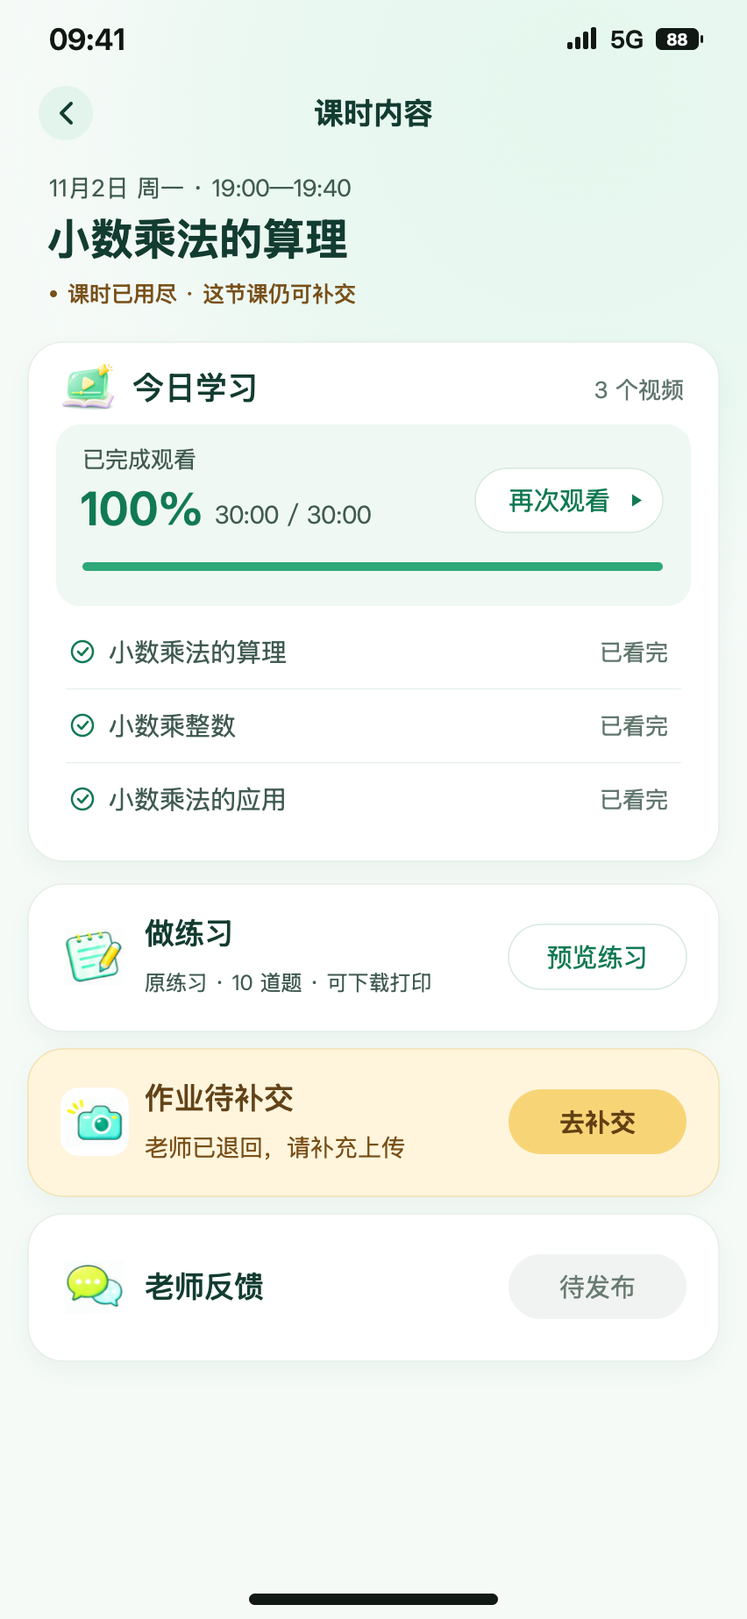
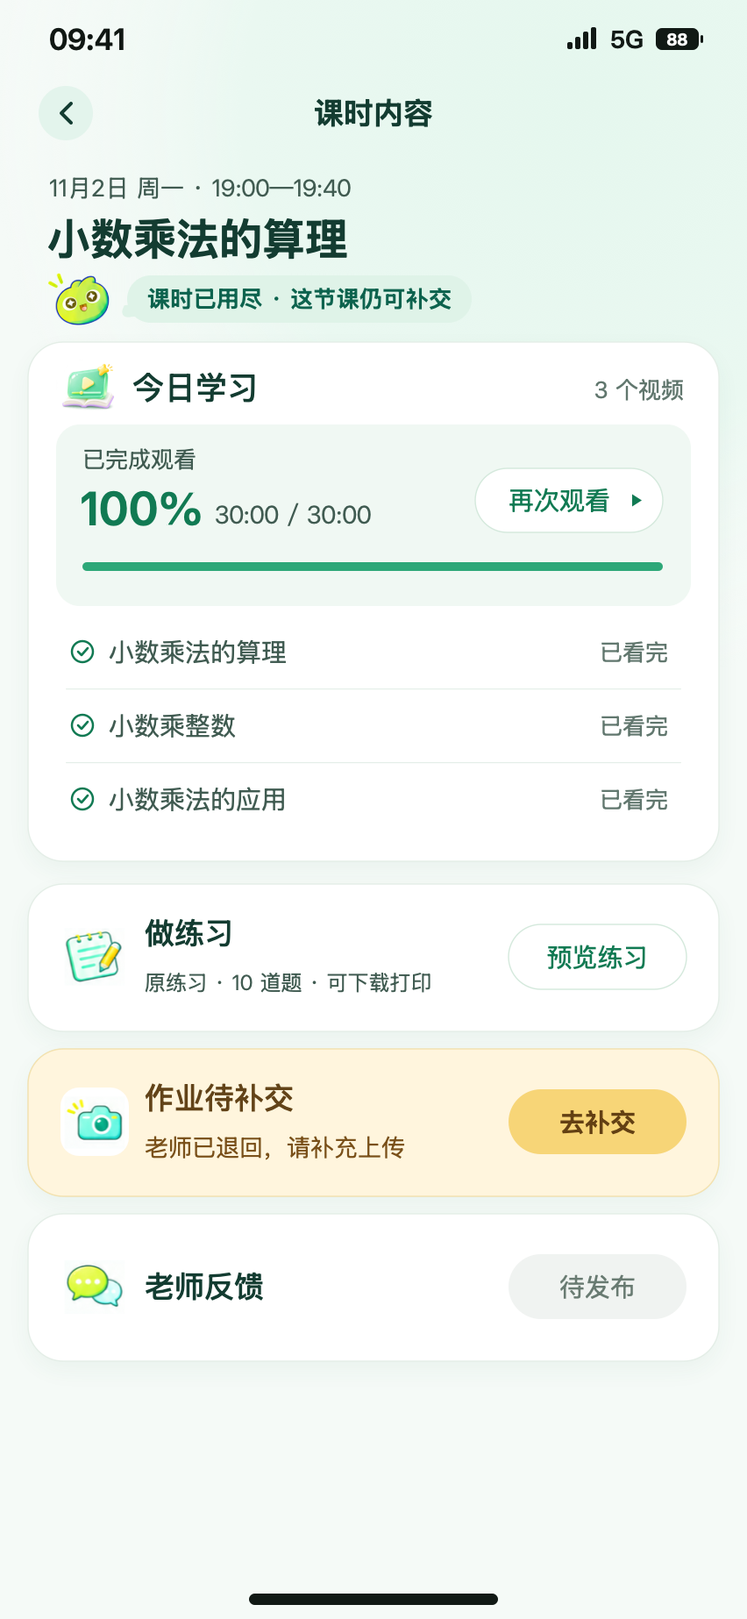
Align lesson status prompts and summary retry

Changed region(s): [[0.061, 0.1544, 0.6103, 0.2161]]

diff --git a/index.html b/index.html
@@ -15,7 +15,7 @@
 <main class="shell" id="shell" hidden><aside class="rail"><input id="search" aria-label="搜索页面" placeholder="搜索页面或状态"><nav id="nav" aria-label="设计页面目录"></nav></aside><section class="workspace"><div class="work-head"><div><h1 id="page-title"></h1><p id="page-meta"></p></div><div class="step-controls"><button id="read-interaction" class="detail-jump">交互说明</button><button id="previous" aria-label="上一张">‹</button><button id="next" aria-label="下一张">›</button></div></div><div class="stage" id="stage"><div class="screen" id="screen"><img id="screen-image" alt=""><div id="hotspots"></div><div id="learning-fields"></div></div></div></section><aside class="detail" id="interaction-detail"><h2 id="detail-title"></h2><p id="feature"></p><h3>功能、状态与权限</h3><ul id="rules"></ul><h3>查看交互去向</h3><div id="actions" class="action-links"></div><div class="file-links"><a id="original" target="_blank" rel="noopener">查看原图 ↗</a><a id="download" download>下载 PNG</a></div><p class="hint">手机稿按原尺寸提供下载。短信、上传、播放、反馈等流程使用演示数据。</p><p class="status"></p></aside></main>
 <section class="overview" id="overview"><h1>UI 设计图</h1><div id="overview-groups"></div></section>
 <script id="review-data" type="application/json">{"screens":[{"id":"00","group":"首页","name":"首页 · 已排课","file":"00-首页-已排课.png"},{"id":"00-empty","group":"首页","name":"首页 · 未排课","parent":"00","file":"00-首页-未排课.png"},{"id":"01","group":"账号","name":"手机号登录","parent":null,"spec":"A clean welcoming phone-code login screen, no tabs or back arrow. Compact green pepper smiling brand logo above 青椒伴学. Warm heading 欢迎回来 and subtitle 让学习有人陪，让成长看得见. White form card contains labels 购课登记手机号 and 短信验证码, phone input placeholder 请输入购课登记手机号, code input 请输入验证码 and inline 获取验证码. Wide turquoise 登录并开始学习 button. Below an UNCHECKED consent checkbox with 我已阅读并同意 plus separate 用户协议 and 隐私政策 text links. Small supporting text 仅面向已购伴学服务、由老师建档的学生. No registration, no password login, no social logins, no fake SMS duration/countdown, no demonstration 123456 in product UI. Friendly illustration no more than 20% of screen.","file":"01-手机号登录.png"},{"id":"02","group":"账号","name":"选择学生","parent":null,"spec":"Subpage title 选择学生. Heading 今天，陪谁一起学习？ subtitle 同一账号下的学生，学习记录各自独立. Two large tappable white student rows: illustrated friendly pepper avatar, 林小禾 / 五年级 · 数学, right chevron; second slightly different friendly pepper expression, 林小满 / 七年级 · 数学, right chevron. Subtle current badge 当前学生 on 林小禾 for this switch-student variant, not an editable control. Bottom explanation 学生档案由老师建立，如有疑问请联系老师. No 新增学生, no editing grade, no destructive controls. No bottom tabs.","file":"02-选择学生.png"},{"id":"02A","group":"账号","name":"完善学习信息","parent":"02","file":"02A-完善学习信息-v2.png","spec":"沿用02的852×1846画布比例；按当前学生确认年级及教材版本。","artwork":"assets/learning-reference.png"},{"id":"03","group":"账号","name":"未关联学生","parent":null,"spec":"Subpage title 暂未关联学生. Spacious centered empty-state illustration: small friendly pepper holding an unlinked student card, modern teal/lime illustrative style, not sad or alarming. Title 当前手机号尚未关联学生. Body 请使用购课登记手机号登录，或通过已有服务渠道联系老师. A single primary 更换手机号 button. Below subtle helper 学生档案由老师建立. No 自动创建, no 注册, no invented teacher contact QR or unknown phone.","file":"03-未关联学生.png"},{"id":"04","group":"学习","name":"周历与待发布周报","parent":null,"spec":"Main STUDY tab screen. Page heading 学习, subtitle 看得见安排，也看得见每一次努力, small pepper mascot top right matching brand. First white calendar card: title 这周的学习安排, small 回到本周 link. Week header left/right chevrons, 11月2日—11月8日. Exactly one row of seven days 周一 2, 周二 3, 周三 4, 周四 5, 周五 6, 周六 7, 周日 8. 4 selected turquoise rounded capsule, small course dots under 2,4,6, no dots other dates. Supporting legend 有已发布安排 · 点击日期查看. Below section 本周学习周报, generous white empty-state card with small illustrated report/book icon, 本周周报尚未发布, 老师发布后，你可以在这里查看, secondary outlined 查看上周周报 button. No monthly calendar, no separate tabs for 周计划/学习周报, no create plan control. Bottom navigation visible with 学习 active.","file":"04-周历与待发布周报.png"},{"id":"05","group":"学习","name":"上周已发布周报","parent":"04","spec":"Keep precisely the same 学习 main screen layout as second reference, with 学习 tab selected. Calendar week changes to 10月26日—11月1日 and seven day numbers 26,27,28,29,30,31,1, course dots under26,28,30; 30 selected. Section 上周学习周报. Replace unpublished empty card with published report card, small report illustration on right, title 一周，一点进步, date10.26—11.01, metadata 3次安排 · 2份作业已提交, small 已发布 · 第1版 pill, turquoise 查看周报 button. Keep 回到本周 link and week chevrons.","file":"05-上周已发布周报.png"},{"id":"06","group":"学习","name":"日期课程弹层","parent":"04","spec":"Date-schedule BOTTOM SHEET overlay on the same 学习 calendar screen as second reference. Dim background softly but retain recognizable calendar and tab bar; overlay covers lower ~53%. Sheet white, rounded top corners, drag handle and close x. Title 11月4日的学习安排, subtitle 周三 · 已发布. One course white/mint card: 数学, 小数乘法的算理, 今天19:00—19:40. Small beautiful math video thumbnail 0.3 × 4 with play symbol, metadata 视频1个 · 原练习3题. Two clear actions: primary 进入学习, secondary 预览练习. Do not repeat 今天上课 badges, do not force video before practice. Sheet padded above home indicator, no tab bar on top of sheet.","file":"06-日期课程弹层.png"},{"id":"07","group":"学习","name":"当天无课程弹层","parent":"06","spec":"State variant of the date-schedule bottom sheet second reference. Background calendar retains current week but select 周四5. Compact white bottom sheet about 36% height with close button and handle. Heading 11月5日的学习安排. Small outlined mint calendar illustration. Message 当天暂无已发布课程. Supporting text 可以切换日期，查看其他学习安排. Neutral 知道了 button that closes sheet. No course cards, no 创建计划 or guessed future plans, no fake data.","file":"07-当天无课程弹层.png"},{"id":"08","group":"课时","name":"课时详情","parent":null,"spec":"Subpage header 学习内容. Top date 11月4日 周三 · 19:00—19:40, heading 小数乘法的算理. Supporting 按自己的节奏开始，不需要依次完成. FOUR compact separate white action cards stacked with balanced spacing, not a timeline requiring order. Each has colorful icon left, text middle and control right:\n看视频 / 已观看35% / 继续观看.\n做练习 / 原练习 · 3题 · 可下载打印 / 预览练习.\n交作业 / 纸笔完成后，拍照整份上传 / 上传作业.\n老师反馈 / 老师发布后可以查看 / 查看状态 (secondary).\nAt bottom a quiet tip 视频、练习与作业可自由进入. No completed/掌握 claims. No empty 加练 entry before teacher publishes, no tabs. All four action cards must fit without compressed glyphs.","file":"08-课时详情.png"},{"id":"09","group":"课时","name":"未来课时未开放","parent":"08","spec":"Exact layout variant of lesson detail reference. Date11月6日 周五 · 19:00—19:40, same course 小数乘法的算理. Add quiet visible mint notice 11月6日00:00开放视频与作业提交 and small 北京时间. 看视频 card locked with 未到学习日 and gray disabled 待开放; 做练习 card remains active 预览练习 with3题 and PDF info; 交作业 locked 待开放; 老师反馈 secondary 查看状态 not a fake published result. Supporting text 现在可以预览练习. No countdown or unlock time19:00; schedule time is not the lock threshold.","file":"09-未来课时未开放.png"},{"id":"10","group":"视频","name":"视频学习 · 多课程","parent":null,"spec":"390×844布局基准，852×1846设计稿；一排三节课程，播放器内倍速，关键节点真人形象AI老师讲解示意；下方总结卡片留足间距，无播放位置提示行。","file":"10-视频学习-v2.png","artwork":"assets/video-reference.png"},{"id":"11","group":"视频","name":"网络失败","parent":"10","spec":"Same 视频学习 layout as reference. Within 16:9 player replace lesson image with calm very pale mint error surface, small tasteful disconnected-network illustration, heading 网络连接失败, helper 请检查网络后重试 and primary 重试播放 button. Keep below course 小数乘法的算理 and remembered-position helper. Bottom 前往练习 remains accessible. No cartoon alarm, no entire-screen huge warning. Preserve page geometry.","file":"11-网络失败.png"},{"id":"12","group":"视频","name":"无观看权限","parent":"10","spec":"Same 视频学习 page geometry. In player state surface use small mint shield/lock illustration, heading 暂无该视频观看权限, helper 请联系老师了解详情. No retry-play button, no purchase or renew CTA. Course title and 前往练习 remain below. Secondary 联系老师 text control may open existing shared contact sheet. Distinguish this state clearly from network failure.","file":"12-无观看权限.png"},{"id":"13","group":"视频","name":"资源不可用","parent":"10","spec":"Same 视频学习 page geometry. In player state area show small mint file/video unavailable illustration, heading 视频资源暂不可用, helper 请稍后再试，或联系老师了解详情. No claim permission expired, no invented reason, no purchase or renewal. Keep course heading and 前往练习 below.","file":"13-资源不可用.png"},{"id":"14","group":"视频","name":"观看有效期届满","parent":"10","spec":"Same 视频学习 page geometry. Player state shows small calendar-lock illustration, heading 视频观看有效期已届满, helper 请联系老师了解详情. Secondary 联系老师 button. Retain 小数乘法的算理 and 前往练习 below. Do not show guessed validity length or automatic renewal. Do not call this 服务到期: video authorization is independent of service.","file":"14-观看有效期届满.png"},{"id":"15","group":"练习作业","name":"原练习预览","parent":null,"spec":"Subpage 练习预览. Label 原练习 · 纸笔作答, right 共3题, heading 小数乘法的算理. White paper-like content with three clear numbered questions and generous ruled handwriting space:\n1. 计算：0.3 × 4 = ______\n2. 一盒彩笔2.5元，买3盒一共多少钱？\n3. 小禾每天步行1.2千米，5天一共步行多少千米？\nThese are static printable questions, NOT input fields, no answer buttons or correct answers.\nBottom fixed action area with outlined 下载原练习PDF and primary 完成了，上传作业. Small helper 练习PDF不含答案，反馈发布后可查看. Ensure handwriting spaces and questions visible; numbered questions printed on a single paper sheet. No bottom tabs.","file":"15-原练习预览.png"},{"id":"16","group":"练习作业","name":"老师加练预览","parent":"15","spec":"Same printable exercise page layout but nav title 巩固加练. Tag 老师发布 · 一轮加练. Title 小数乘法巩固练习, 共3题. Paper questions: 1.计算：0.4 × 3 = ______; 2.每盒彩笔2.6元，4盒共多少元？; 3.每天步行1.5千米，4天共多少千米？ Handwriting areas, no answers and no online inputs. Bottom secondary 下载加练PDF and primary 完成了，上传加练. Small text 老师发布后即可完成，不另扣课时. No automatic second round, no mastery meter.","file":"16-老师加练预览.png"},{"id":"17","group":"练习作业","name":"多图作业待提交","parent":null,"spec":"Subpage 原练习作业. Course 小数乘法的算理, subtitle11月4日 周三 · 原练习. Gentle helper 请拍清整页，保留题目和答案. White upload area: two realistic photographed elementary math homework paper thumbnails with tidy visible pencil arithmetic and page numbers 第1张, 第2张. These are photographs, not flat icons. Each thumbnail small x delete control at top-right. A third equal-size dashed mint + 添加图片 tile with 拍照或从相册选择 helper. Below note 支持多张图片，不支持PDF上传. Wide bottom primary 确认整份提交 · 2张. Helper 提交后可查看，老师退回后才能修改. Small neutral note 21:00后仍可提交. No demo-image button, no hard-coded file-size limit or max count.","file":"17-多图作业待提交.png"},{"id":"18","group":"练习作业","name":"整份提交确认","parent":"17","spec":"Exact upload page as reference behind a lightly dimmed scrim. White compact BOTTOM SHEET with handle, small check/document illustration. Heading 确认提交这份作业？ Body 共2张图片，请确认题目与答案完整清晰. Small helper 提交后可查看，老师退回后才能修改. Full turquoise 确认提交 and secondary 继续检查. Close x, safe bottom padding. Photo thumbnails behind stay selected. No automatic deletion, no irrevocable exaggerated warning.","file":"18-整份提交确认.png"},{"id":"19","group":"练习作业","name":"上传失败保留图片","parent":"17","spec":"Exact editable upload page geometry as reference, keep BOTH homework photo thumbnails selected with delete controls and add tile. Add in-context gentle coral error row 上传失败，已保留所选图片 and secondary 请检查网络后重试 near submission area. Primary button 重试整份提交 · 2张. No reset to empty, no success badge, no clearing thumbnails. Maintain original course/date and readable helper. A soft red error icon only, not a full red page.","file":"19-上传失败保留图片.png"},{"id":"20","group":"练习作业","name":"提交成功只读","parent":"17","spec":"Same 原练习作业 page, course/date. Replace upload zone with submitted white card. Small mint success illustration, heading 作业已提交, subtitle 等待老师反馈. Show exactly two uploaded homework photo thumbnails labelled 第1张 and 第2张 in read-only mode: NO delete x, NO +tile, NO replace/upload action. Supporting 提交后不可自行覆盖，老师退回后可重新上传. Secondary 查看反馈状态 button. Small success toast 已提交，等待老师反馈 at lower area, not over controls. No invented response deadline.","file":"20-提交成功只读.png"},{"id":"21","group":"练习作业","name":"老师退回补交","parent":"17","spec":"Editable upload state nav 原练习作业, course 小数乘法的算理, date11月2日 周一 · 原练习. Prominent but soft amber notice: 老师已退回，请补充上传, explanation 第3题照片不完整，请补充包含题目和答案的整页照片. Preserve two existing photo thumbnails, each has delete x and 第1张/第2张 labels, plus +添加图片 tile. One outlined amber marker on second thumbnail 待补充. Bottom primary 确认补交 · 2张. Helper 21:00后仍可提交. No teacher-side buttons, no losing original images, no close-service notice in this active-service state.","file":"21-老师退回补交.png"},{"id":"22","group":"练习作业","name":"作业图片大图预览","parent":"17","spec":"Full-screen IMAGE VIEWER, not upload editor. Deep charcoal backdrop, top statusbar light. Top-left back chevron, centered 作业图片, top-right 1 / 2. Large legible realistic photograph of elementary math homework sheet centered with correct paper proportions, handwritten pencil calculations for 0.3×4=1.2, 2.5×3=7.5元, 1.2×5=6千米, with appropriate question text. Entire sheet visible without stretching, subtle margin. Bottom understated 左右滑动查看图片 and small home indicator. No delete button, no sharing to external platforms, no extra tab bar. This viewer may be dark because photo viewing requires focus; keep brand control accent turquoise.","file":"22-作业图片大图预览.png"},{"id":"23","group":"反馈周报","name":"反馈待发布","parent":null,"spec":"Subpage 老师反馈. Course 小数乘法的算理, date11月4日 周三. Main centered white state card with friendly small illustrated letter/report and tiny pepper, heading 已提交，等待老师反馈. Supporting 老师正式发布后，你可以看到逐题结果与学习建议. Secondary 查看已提交作业. Keep sufficient airy spacing. No provisional AI results, no answers, no visible draft version, no countdown or promised release time. A discreet bottom text 每一次认真，都值得被看见.","file":"23-反馈待发布.png"},{"id":"24","group":"反馈周报","name":"老师反馈","parent":null,"spec":"蓝色为今日知识点，红色为练习掌握情况，绿色为后续加强方向；错题解析支持批注详情底部抽屉和不同批注原图。","file":"24-老师反馈-v2.png","artwork":"assets/feedback-reference.png"},{"id":"24A","group":"反馈周报","name":"练习批改详情","parent":"24","file":"24A-批注详情-v2.png","artwork":"assets/feedback-reference.png"},{"id":"25","group":"反馈周报","name":"学习周报概览","parent":null,"spec":"Subpage 学习周报. Mint introductory area small report illustration; date10月26日—11月1日; title 小步向前，每一步都算数; subtitle 林小禾 · 数学周报 · 已发布第1版. Main white stats card 这一周的学习记录 with exactly 3 安排课程, 2 提交作业, 1 待提交. Next card 练习记录 with 3 rows: 原练习正确率 / 4/6 · 66.7%; 错题加练 / 1/3 · 33.3%; 全对巩固 / 暂无数据. Small informational note 原练习未交与待复核单列；加练待复核计入分母，不等同答错. Follow teacher-suggestion card visible near bottom 林老师想对你说, short 继续练习应用题，记得写清列式与单位. Fixed bottom 下载已发布周报PDF button with reserve space. No share link, no mastery, no study-time predictions, no red pie chart. Page can scroll, keep readable type.","file":"25-学习周报概览.png"},{"id":"26","group":"反馈周报","name":"学习周报明细续屏","parent":"25","spec":"A scrolled continuation of SAME 学习周报 detail, not a new module. Keep pinned back header 学习周报, small 已发布第1版. At top teacher card 林老师想对你说 with photo and advice 你认真完成了两次练习。下周继续练习应用题，记得写清列式与单位；未提交的作业也可以补上. Next card 课程与视频安排 with three entries:\n10月26日 小数乘整数 / 安排已结束;\n10月28日 小数乘小数 / 安排已结束;\n10月30日 小数乘法的应用 / 安排已结束.\nEach small tasteful video thumbnail, no fabricated watched status.\nNext explanation card 统计说明: 原练习：2份已完整复核，1份未交单列. 加练：1题正确、1题错误、1题待复核. 安排结束不代表学习完成. Distinguish 待复核 from 错误. Bottom same fixed 下载已发布周报PDF button. Do not duplicate top hero or nav tabs. Readable breathing room.","file":"26-学习周报明细续屏.png"},{"id":"27","group":"我的","name":"我的 · 反馈中心入口","parent":null,"spec":"原林老师企业微信卡片替换为反馈中心入口；点击跳转37反馈中心，不展开联系老师弹层。","file":"27-我的-v2.png","artwork":"assets/my-reference.png"},{"id":"37","group":"我的","name":"反馈中心","parent":"27","file":"37-反馈中心-v2.png","artwork":"assets/center-reference.png"},{"id":"29","group":"我的","name":"退出登录确认","parent":"27","spec":"Same 我的 page softly dimmed behind a centered compact white rounded confirmation dialog. Heading 退出当前账号？ Body 学习记录会保留，下次登录后可继续查看. Two equal horizontally aligned buttons 取消 neutral and 确认退出 turquoise. No danger-red destructive delete-account action. Background bottom tab remains visible dimmed. No invented checkbox or account erasure.","file":"29-退出登录-v2.png","artwork":"assets/my-reference.png"},{"id":"30","group":"练习作业","name":"服务结束历史作业只读","parent":"20","spec":"Same read-only submitted 原练习作业 layout as reference. Course 小数乘法的算理 date11月2日 周一 · 原练习. At top soft amber note 服务已结束，历史作业仍可查看，不支持补交. Two read-only homework thumbnails with no delete/add controls. Label 历史作业 · 已提交. Bottom neutral contact button 联系老师. No 上传/补交 enabled button, no clearing history. A small helpful text 视频观看权限独立，以资源实际状态为准. This is service ended, NOT video expired.","file":"30-服务结束历史作业只读.png"},{"id":"31","group":"状态规范","name":"服务状态组件规范","parent":"27","spec":"EXCEPTION to single phone screenshot: create ONE polished portrait 390:844 COMPONENT STATE SHEET, same visual system and readable compact Chinese, no phone statusbar or bottom tabs. Title 伴学服务 · 状态规范, subtitle 四种状态的统一表达. Four vertically stacked white compact component cards:\n已暂停: 30总课时 /6已消 /24剩余; 暂停期间不新增安排，历史作业仍可补交.\n课时已耗尽 · 有效期内:30总课时 /30已消 /0剩余; 不新增安排，历史作业仍可补交.\n已到期:30总课时 /6已消 /24剩余; 历史记录可查看，作业不可补交.\n已结束:30总课时 /6已消 /24剩余; 历史记录可查看，作业不可补交.\nEach status combines label and gentle semantic icon, never color only. Footer 视频权限独立，不随服务状态自动取消. Keep common student service dates2026.10.20—2027.01.20 as fixture in small line once, no arbitrary reason for paused/ended and no renewal CTA. This is a labeled design handoff sheet showing reusable components, not all these states simultaneously in actual product.","file":"31-服务状态组件规范.png"},{"id":"32","group":"状态规范","name":"表单与操作反馈规范","parent":"01","spec":"EXCEPTION: ONE portrait 390:844 UI COMPONENT STATE SHEET, not actual app page. Title 操作反馈 · 状态规范. Clean readable white/mint examples of these six independent components with headings:\n1 手机号输入错误: phone input shows1380000800 in soft coral border; helper 请输入正确的11位手机号.\n2 验证码错误: code input ******; helper 验证码错误或已失效，请重试.\n3 未同意协议: checkbox unchecked; helper 请先阅读并同意用户协议与隐私政策.\n4 上传中: turquoise disabled button spinner 正在提交，请稍候; note 保留图片，避免重复提交.\n5 复制结果: two small separate toast examples 已复制企业微信号 and 复制未成功，请长按微信号复制.\n6 图片类型错误: neutral inline toast 仅支持图片，不支持PDF.\nNo duration/countdown values, no invented upload maximum, no fake submission success claim. Use realistic input/button components matching approved visual style, tidy spacing and clearly separated examples. No bottom tabs or phone statusbar, these are implementation reference components. Include 逐题状态 reusable badges 正确/错误/未作答/待复核 with icons.","file":"32-表单与操作反馈规范.png"},{"id":"33","group":"账号","name":"协议阅读模板","parent":null,"spec":"Subpage title 用户协议. Slim subtitle 青椒伴学. Clean white reading surface within mint canvas. Show honest placeholder reading template, not fabricated legal contract: small gray label 协议正文待业务与法务提供, title 用户协议, one short paragraph 这里将展示经确认的正式协议正文。当前页面仅用于展示阅读页样式与返回路径. Add modest section example 适用范围 / 正文确认后展示 and small label 隐私政策共用本阅读模板. Neutral back arrow in header and bottom 返回上一页 button. No fake consent to nonexistent legal terms, no registration/payment or legal guarantees. Important: this is a visually finished reading-page TEMPLATE with explicitly pending text, not a claim that legal document is complete.","file":"33-协议阅读模板.png"},{"id":"34","group":"练习作业","name":"未来课程练习可预览提交未开放","parent":"15","file":"34-未来课程练习可预览提交未开放.png","spec":"Future-course variant of the exact original exercise preview reference. Keep nav练习预览, course小数乘法的算理, all three original questions and handwriting space, readable type, card and download button. Small quiet notice above questions 11月6日00:00开放作业提交 · 北京时间. Bottom 下载原练习PDF remains ACTIVE outlined turquoise. Right submission button GRAY and DISABLED, text 学习日当天开放提交. No arrow or active turquoise upload control. Clearly label 原练习 · 纸笔作答. Future exercise can be previewed and downloaded, but original homework cannot yet be submitted. No countdown, no tabs. One portrait mobile screen390:844."},{"id":"35","group":"练习作业","name":"首次上传空态","parent":"17","file":"35-首次上传空态.png","spec":"Original homework initial upload EMPTY state of the exact reference17. Keep nav原练习作业, course小数乘法的算理, date11月4日 周三 · 原练习, gentle helper请拍清整页，保留题目和答案. Remove ALL photo thumbnails, deletion controls and page badges. Replace with clean white upload card with a small tasteful camera and paper illustration, clear dashed mint + 添加作业图片 target, helper 拍照或从相册选择 · 支持多图. Note 仅支持图片，不支持PDF上传. Bottom GRAY DISABLED primary button 确认整份提交 · 0张, no active turquoise submit. Keep helper 提交后可查看，老师退回后才能修改 and small21:00后仍可提交. Comfortable whitespace, no giant decorations, no demo-image button, no invented file count or size limits. One portrait mobile screen390:844."},{"id":"36","group":"练习作业","name":"加练作业独立上传","parent":"17","file":"36-加练作业独立上传.png","spec":"Independent EXTRA PRACTICE homework upload variant of reference17. Nav title 加练作业, course title 小数乘法巩固练习, subtitle10月30日 周五 · 老师发布加练. Small tag 加练独立提交. Keep upload card geometry, friendly helper请拍清整页，保留题目和答案. Exactly TWO realistic photographed math extra-practice homework pages, each has delete x and第1张/第2张. Third +添加图片 target 拍照或从相册选择. No original homework images; photos show handwriting on decimal multiplication worksheets. Primary 确认加练提交 · 2张. Footer 加练不另扣课时，提交记录与原练习独立. Small supporting sentence 老师发布后即可完成. No future-course lock, no second-round auto assignment. No bottom tabs. One portrait mobile screen390:844."}],"interactions":{"10":{"feature":"一张视频学习页：课程切换、播放器内控制、关键节点AI老师讲解示意及对应内容总结。","rules":["顶部单排切换小数乘法的算理、小数乘整数、小数乘法的应用。标题、例题、总结及播放状态随课程同步更新。","每个学生、每节课程分别保留当前浏览会话的进度和倍速；切换课程不混用。","倍速只出现在播放器内，支持0.75×、1.0×、1.25×、1.5×、2.0×；删除播放器外的播放位置提示行。","关键知识节点在视频左下角展示真人形象AI老师，避开题目及控制栏；拖动进度可预览出现和收起。","课程选择、播放示意、进度、倍速可操作；未连接真实视频、人物口播和AI分析服务。老师是静态形象示意，时间点为演示样例。","三节视频共用本课时的原练习入口；课程条、播放器、总结之间留足间距，仅保留一张视频页面。"],"actions":[["去练习","15"],["返回课时","08"],["网络失败状态","11"]]},"11":{"feature":"网络失败，可重试播放。","rules":["保留上次播放位置；重试成功回正常态。","加载过程中防重复重试，失败不清空学习上下文。"],"actions":[["重试播放成功","10"],["前往练习","15"],["返回课时","08"]]},"12":{"feature":"当前视频未获观看权限。","rules":["隐藏播放控件与倍速操作，不出现购买或续费按钮。","保留课时、练习与历史记录，提供联系老师路径。"],"actions":[["反馈中心（共用弹层）","37"],["前往练习","15"],["返回课时","08"]]},"13":{"feature":"视频资源暂不可用，与网络故障、权限原因分开。","rules":["不猜测资源失效原因，不显示成功或已过期的误导文案。","数据恢复后仍从已保存位置播放。不可操作的播放器控制应隐藏或禁用。"],"actions":[["资源恢复后","10"],["前往练习","15"],["返回课时","08"]]},"14":{"feature":"独立视频观看有效期届满。","rules":["禁止播放并移除播放控件。与伴学服务状态独立判断。","不编造小学／初中观看期限、起算方式或续费规则。"],"actions":[["反馈中心（共用弹层）","37"],["前往练习","15"],["返回课时","08"]]},"15":{"feature":"原练习纸笔预览与PDF下载。","rules":["保留题号、题序及手写区，不做在线答题。","下载不含标准答案。只有正式反馈发布后才展示答案。","PDF下载保持阅读位置；失败给出提示与重试，不清空页面。"],"actions":[["完成了，上传作业","35"],["查看未来禁用态","34"],["返回课时","08"]]},"16":{"feature":"老师正式发布的一轮独立加练。","rules":["原练习与加练PDF、图片与提交状态独立。","老师发布后即可进入，不等待下一个学习日，不另扣课时，不自动追加第二轮。"],"actions":[["完成了，上传加练","36"],["返回反馈","24"]]},"17":{"feature":"原作业已选择两张图片的可编辑状态。","rules":["仅图片、多图整份提交；提交前可预览、增补和删除。图片移除后数量实时变化。","删除至0张时禁用提交。系统相册选择取消，保留原列表。上传前保留原文件比例与拍摄方向。","不规定未经确认的文件大小或数量上限。21:00只是处理分界，不禁止提交。"],"actions":[["确认整份提交","18"],["点击图片预览","22"],["删除全部后","35"],["模拟提交失败","19"],["返回练习","15"]]},"18":{"feature":"整份提交前确认弹层。","rules":["图片数量来自当前列表，不硬编码。继续检查与关闭不丢失图片。","点击确认进入上传中，锁定重复提交；成功只读，失败保留全部待传图片。","原练习与加练共用确认组件，背景及任务身份必须保持来源上下文。"],"actions":[["确认提交成功","20"],["确认提交失败","19"],["继续检查","17"],["上传中组件","32"]]},"19":{"feature":"上传失败，已选两张图片仍保留。","rules":["保留顺序与数量，错误提示靠近提交区。","重试仍需提交当前整份图片；不能先清空图片或误显示成功。"],"actions":[["重试并确认","18"],["点击图片","22"],["返回编辑","17"]]},"20":{"feature":"提交成功，只读查看。","rules":["成功后不可自行覆盖，不显示删除或追加入口；老师退回后才恢复编辑。","点击图片进入只读预览。成功提示短暂出现，不能遮挡内容，时长按系统组件规范。"],"actions":[["查看反馈状态","23"],["点击图片","22"],["老师退回后","21"],["正式发布反馈后","24"],["返回课时","08"]]},"21":{"feature":"老师退回后的补充上传状态。","rules":["显式展示退回原因和需补充位置，保留原有图片。","允许整份重新确认提交；补交不生成新的学习课时。","未收到教师的结构化图片定位时，只显示原因，不在生产中猜测哪张图错误。"],"actions":[["确认补交","18"],["点击图片","22"],["返回课时","08"]]},"22":{"feature":"作业图片全屏只读查看。","rules":["保持原图比例，支持左右切换、页码和缩放查看；关闭回来源页。","预览不删除图片，不改变作业状态；支持屏幕阅读器的图片次序说明。","本稿纸面内容仅为AI生成示意，正式预览应显示实际上传原图。"],"actions":[["返回待提交作业","17"],["查看已提交只读页","20"]]},"23":{"feature":"已提交但反馈尚未正式发布。","rules":["不展示AI初步批改、不展示教师草稿、不暴露答案。","未交原练习时同组件文案改为老师反馈尚未发布；服务结束时提示未完成服务不再继续。","老师发布后刷新到正式版，不许学生触发发布。"],"actions":[["查看已提交作业","20"],["老师正式发布后","24"],["返回课时","08"]]},"24":{"feature":"老师的当日反馈、错题解析和多图批改详情。","rules":["蓝色文字展示今日所学知识点，红色文字展示练习掌握情况，绿色文字说明后续重点加强方向。","错题解析分学生作答、参考答案、解题思路；反馈仅展示正式发布版本。","查看批注详情打开当前页底部抽屉：蒙层、圆角、拖动条、关闭按钮，缩略图按两列四行展示。","8张内容不同的批注示例可点击放大，支持上一张、下一张、放大、缩小、还原、拖动及双指缩放；示例图片不是真实学生作业。","关闭原图回缩略图，关闭抽屉返回当前反馈；教师修改草稿不覆盖旧正式版。"],"actions":[["查看批注抽屉","24A"],["进入老师安排的加练","16"],["返回课时","08"]]},"25":{"feature":"已发布学习周报的概览上屏。","rules":["按学生和周展示正式版，下载同版本PDF；草稿不显示且不能下载。","原练习未交／待复核单列；加练待复核计分母但不是答错；组合题按小题统计。","图示3/2/1与4/6、1/3均为原型样例，不作学习掌握或时长推算。"],"actions":[["向下查看周报明细","26"],["返回所选周","05"]]},"26":{"feature":"同一周报的下半部分，非独立业务页面。","rules":["承接老师建议、课程视频安排与统计说明。安排结束不代表学习完成。","补交只更新后台草稿，正式重新发布后学生可见版及PDF才变化；不得直接覆盖旧版。","下载当前学生和发布版本PDF，不提供分享链接。"],"actions":[["向上回概览","25"],["返回所选周","05"]]},"27":{"feature":"当前学生、伴学服务和反馈中心入口。","rules":["学生档案、课包总额/已消/剩余/有效期只读。","手机号换绑交由老师核实后后台处理，点击给说明而非开放自助编辑。","顶部切换学生，所有数据随学生切换；退出账号保留学习记录。","原林老师企业微信卡片改为反馈中心；点击进入独立反馈页，不弹出联系老师弹层。"],"actions":[["切换学生","02"],["反馈中心","37"],["用户协议／隐私政策模板","33"],["退出登录","29"],["其他服务状态","31"],["首页","00"],["学习","04"]]},"29":{"feature":"退出登录二次确认。","rules":["取消回当前页，确认清理当前登录状态并返回登录页。","保留服务器学习记录；不得误做账号注销、删除学生或清空学习历史。","背景使用更新后的我的页面，原林老师企业微信卡片已删除，保留反馈中心入口。"],"actions":[["取消","27"],["确认退出","01"]]},"30":{"feature":"服务到期或手动结束后的历史作业只读模板。","rules":["保留历史记录和图片，禁止新增/补交；没有记录时展示暂无提交记录。","暂停与课时耗尽但有效期内仍可补交，不应复用此只读权限。","视频另按自身授权与观看有效期判断。"],"actions":[["查看图片","22"],["反馈中心","37"],["服务状态规范","31"],["返回我的","27"]]},"31":{"feature":"设计交付组件页：四种服务状态，非学生端同时出现的页面。","rules":["暂停、课尽有效期内：历史作业可补交；到期、手动结束：只读。","服务中使用27，异常状态替换同一服务卡，不增加用户可操作的状态选择器。","服务期限和课时为样例，结束原因来自后台；视频授权独立。"],"actions":[["我的服务中","27"],["服务结束历史只读","30"]]},"32":{"feature":"设计交付组件页：表单、提交过程、复制、类型错误及逐题状态。","rules":["校验错误定位对应输入，并保留用户输入。上传过程防重复提交。","结果标签含图标和文字；未作答与待复核不等于错误。","不以生成图中文字作为最终文案源，实施采用交互说明内的准确文案与真实文本组件。"],"actions":[["登录页","01"],["上传空态","35"],["上传失败","19"],["反馈中心","37"],["正式反馈","24"]]},"33":{"feature":"用户协议与隐私政策共用的阅读页样式模板。","rules":["正文须业务/法务提供，此页不包含真实法律条款。","从登录或我的进入，返回相同来源，不自动勾选同意。","正式长正文采用可滚动正文与固定返回导航，保持正常字号。"],"actions":[["返回登录","01"],["返回我的","27"]]},"34":{"feature":"未来课程的原练习可预览可下载，提交未开放。","rules":["提交控件禁用，并展示学习日北京时间00:00开放说明。","下载PDF仍可操作，未开放不能从其他路径绕过提交限制。"],"actions":[["返回未来课时","09"]]},"35":{"feature":"首次上传未选择图片，提交禁用。","rules":["拍照或相册选择完成后进入可编辑列表；取消选择保持空态。","禁止0张提交，不展示示例图片快捷按钮，不接收PDF。"],"actions":[["选择两张图片后","17"],["返回练习","15"]]},"36":{"feature":"老师发布后独立加练的多图上传。","rules":["独立任务ID与图片、状态，不覆盖原练习。发布后可做，不等待下一学习日。","复用17—22的编辑/确认/失败/成功/退回/预览组件，但标题、任务与图片保持加练上下文。","加练不另扣课时、不自动追加下一轮；服务结束仍不可补交。"],"actions":[["预览共用确认组件","18"],["预览共用失败组件","19"],["返回加练","16"]]},"00":{"feature":"已排课首页：学习足迹、今日课程总览和老师发布的加练。","rules":["学习计划展示今日待学3门课程、预计学习120分钟；查看课程进入学习安排。","专属伴学展示已添加的老师和待完成加练；学习足迹展示已有知识点记录。","课程数量、时长及知识点数字为本页设计示例；实际由当前学生数据提供。","学习足迹知识图谱详情与活动落地页未在本期原型定义。"],"actions":[["查看课程／全部计划","04"],["老师加练／全部任务","16"],["查看未排课首页","00-empty"],["学习","04"],["我的","27"]]},"01":{"feature":"购课登记手机号与短信验证码登录。","rules":["必须验证11位手机号并勾选协议。验证码发送与错误提示不清空手机号。","单学生进入完善学习信息，多学生先选择学生再完善学习信息，未关联进入说明页。","发送间隔、验证码有效时长与设备策略待技术确认。"],"actions":[["多学生登录后","02"],["单学生登录后","02A"],["未关联学生","03"],["表单错误规范","32"],["阅读协议模板","33"]]},"02":{"feature":"同一账号选择当前学生，或从“我的”切换学生。","rules":["学习记录、作业、反馈、周报及服务数据按学生隔离。","登录首次选择时不显示“当前学生”；切换学生场景显示当前标记。","切换后清理上一学生的临时图片与播放器上下文，不能混用；不开放自助建档。","登录流程选择学生后进入完善学习信息，确认年级和教材版本后再进入首页。"],"actions":[["选择林小禾并完善信息","02A"],["选择林小满并完善信息","02A"],["返回我的","27"]]},"03":{"feature":"说明手机号未关联学生，不自动建档。","rules":["更换购课登记手机号登录，或通过已有服务渠道联系老师。","没有已知老师联系方式时，不生成虚构联系方式。"],"actions":[["更换手机号","01"]]},"04":{"feature":"学习主页面：周一至周日的单行周历，下方同周周报。","rules":["周历仅标注已发布课程；选中态与有课圆点独立。","周报未发布不展示草稿。上一周／下一周同步切换日期与周报；不使用月历或二级页签。"],"actions":[["上一周／查看上周周报","05"],["点击11月4日","06"],["点击11月5日","07"],["我的","27"],["首页","00"]]},"05":{"feature":"上周周历及已正式发布的周报入口。","rules":["只展示所选学生、所选周的正式发布版本。","回到本周恢复当前周及当前日期；边界周箭头按数据范围禁用。"],"actions":[["回到本周","04"],["查看周报","25"],["学习","04"],["我的","27"],["首页","00"]]},"06":{"feature":"有课日期的课程安排底部弹层。","rules":["课程名沿用视频名，不另造课时名称。","进入学习与预览练习可分别进入；关闭返回周历并保留日期。","弹层须阻断背景交互，关闭后焦点返回触发日期。"],"actions":[["进入学习","08"],["预览练习","15"],["关闭","04"]]},"07":{"feature":"无已发布课程日期的空态弹层。","rules":["选中日期无课程圆点，不显示创建计划入口。","关闭或知道了返回周历，日期选择不丢失。"],"actions":[["知道了／关闭","04"]]},"08":{"feature":"视频、原练习、作业、反馈的独立状态入口。","rules":["可以自由进入，不强制按步骤完成。观看进度不代表掌握，不触发扣课。","无加练时不显示空入口；老师正式发布加练后可追加第五个入口，复用16。","作业入口随未交／已交／退回切换到对应状态；返回恢复来源页与滚动位置。"],"actions":[["继续观看","10"],["预览练习","15"],["首次上传作业","35"],["查看反馈状态","23"],["查看未来课程状态","09"],["查看已发布反馈","24"],["返回学习","04"]]},"09":{"feature":"未来已发布课程详情。","rules":["按学习日北京时间00:00开放视频和原作业提交；19:00是安排时间，不是开放阈值。","练习预览与PDF下载保持可用。开放前按钮禁用且有原因；不做虚构倒计时。"],"actions":[["预览练习","34"],["返回学习","04"]]},"00-empty":{"feature":"未排课首页：学习足迹空态、暂无学习计划及老师未排课状态。","rules":["学习足迹展示开始学习提示和灰色图谱，不显示已有知识点数量。","学习计划提示暂无学习计划，并引导联系排课老师；不显示查看课程按钮。","专属伴学保留林老师信息，展示未排课；不展示待完成加练任务。","本稿只新增首页状态，未排课的计划列表、任务列表及知识图谱详情未另行定义。"],"actions":[["查看已排课首页","00"],["学习主页面样例","04"],["我的","27"]]},"02A":{"feature":"登录后按当前学生确认就读年级和教材版本，再开始学习。","rules":["单学生登录直接进入本页；多学生账号先选择学生。本页沿用02的视觉风格。","年级、教材版本均必选；已有信息可以回显。图稿示例为林小禾、五年级、人教版。","可操作预览支持选择年级和教材版本；信息仅在当前浏览会话按学生分别保存，未连接真实学生档案。","确认后按真实排课状态进入对应首页；审阅稿右侧提供已排课和未排课两种去向。","教材版本选项仅作原型示例，正式列表由实际支持的教材维护，不根据年级自动猜测。"],"actions":[["确认后 · 已排课首页","00"],["确认后 · 未排课首页","00-empty"],["返回选择学生","02"],["返回登录","01"]]},"24A":{"feature":"老师反馈内的批注详情底部抽屉，与参考图相同的两列四行结构。","rules":["查看批注详情打开当前页底部抽屉：蒙层、圆角、拖动条、关闭按钮，缩略图按两列四行展示。","8张内容不同的批注示例可点击放大，支持上一张、下一张、放大、缩小、还原、拖动及双指缩放；示例图片不是真实学生作业。","关闭原图回缩略图，关闭抽屉返回当前反馈；教师修改草稿不覆盖旧正式版。"],"actions":[["返回老师反馈","24"]]},"37":{"feature":"从我的进入的独立反馈中心，包含工作人员信息和反馈表单。","rules":["保留工作人员入口及反馈表单；使用紧凑联系人卡片、三选一反馈类型、问题描述和人工联系选项。","反馈类型为表扬、投诉、建议，单选；问题描述和是否需要人工联系均为必填。","联系专员的真实联系方式尚未接入；图稿不展示虚假二维码。描述上限500字，计数实时更新。","当前为UI原型，提交进行表单校验并提示反馈尚未发送；草稿在当前浏览会话按学生保留，未连接提交服务。","点击返回回到我的；不使用联系老师弹窗替代反馈中心。"],"actions":[["返回我的","27"]]}},"hotspots":{"10":[],"11":[["重试播放","10",33,32,34,5],["前往练习","15",14,75.5,72,7],["返回","08",3,5.5,8,4]],"12":[["反馈中心","37",32,35.2,37,4.6],["前往练习","15",14,75.5,72,7],["返回","08",3,5.5,8,4]],"13":[["前往练习","15",14,75.5,72,7],["返回","08",3,5.5,8,4]],"14":[["反馈中心","37",32,35.2,37,4.6],["前往练习","15",14,75.5,72,7],["返回","08",3,5.5,8,4]],"15":[["完成了，上传作业","35",51.5,87.8,45.1,4.4],["返回","08",3,5.5,8,4]],"16":[["完成了，上传加练","36",51.4,89.6,45.5,4.9],["返回","24",3,5.5,8,4]],"17":[["图片预览","22",8,28,63,18],["整份提交","18",4,84.2,92,6],["返回","15",3,5.5,8,4]],"18":[["确认提交","20",4,87,92,5.2],["继续检查","17",4,92.7,92,4.6],["返回","17",3,5.5,8,4]],"19":[["重试提交","18",4,86,92,5.5],["返回","15",3,5.5,8,4]],"20":[["图片预览","22",8,38.3,63,18.5],["查看反馈状态","23",6,82.8,88,5.4],["返回","08",3,5.5,8,4]],"21":[["确认补交","18",4,87.5,92,6],["返回","08",3,5.5,8,4]],"22":[["返回图片列表","17",3,5.5,8,4]],"23":[["查看已提交作业","20",23,60,54,6],["返回","08",3,5.5,8,4]],"24":[["进入加练","16",4.1,90.2,91.7,5.2],["返回","08",3,5.2,8,4]],"25":[["向下看明细","26",80,84,16,4],["返回","05",3,5.5,8,4]],"26":[["回概览","25",3,5.5,8,4],["返回","05",3,5.5,8,4]],"27":[["切换学生","02",71,21.5,24,4.5],["用户协议","33",5,66.3,90,4.7],["隐私政策","33",5,71,90,4.7],["退出登录","29",4,83,92,5.5],["首页","00",4,90.5,28,7.2],["学习","04",35,90.5,30,7.2],["我的","27",68,90.5,28,7.2]],"29":[],"30":[["查看图片","22",8,41,64,20],["反馈中心","37",4,88,92,6],["返回","27",3,5.5,8,4]],"33":[["返回登录","01",4,77,92,6],["返回","01",3,5.5,8,4]],"34":[["返回","09",3,5.5,8,4]],"35":[["添加作业图片","17",8,48,84,13],["返回","15",3,5.5,8,4]],"36":[["通用确认组件","18",4,84,92,6],["返回","16",3,5.5,8,4]],"00":[["查看课程","04",68.5,45.0,25.5,4.3],["全部计划","04",74,39.2,20,3.3],["老师加练","16",74.5,84.8,19,3.8],["全部任务","16",74,72.5,20,3.3],["首页","00",4,90.7,28,7.1],["学习","04",35,90.7,30,7.1],["我的","27",68,90.7,28,7.1]],"01":[["登录","02",7,60.8,86,6.2],["用户协议","33",49,73,17,3],["隐私政策","33",70,73,17,3]],"02":[["选择林小禾","02A",4,26.6,92,12],["选择林小满","02A",4,39.5,92,12]],"03":[["更换手机号","01",16,64,68,7]],"04":[["上一周","05",16,25,8,4],["11月4日","06",32,30,12,9],["11月5日","07",44,30,12,9],["查看上周周报","05",30,73,40,5],["首页","00",4,90.5,28,7.2],["学习","04",35,90.5,30,7.2],["我的","27",68,90.5,28,7.2]],"05":[["回到本周","04",72,20.6,22,3],["查看周报","25",8,68,33,5],["首页","00",4,90.5,28,7.2],["学习","04",35,90.5,30,7.2],["我的","27",68,90.5,28,7.2]],"06":[["关闭","04",89,52.5,8,4],["进入学习","08",4,91,46,5.5],["预览练习","15",52,91,44,5.5]],"07":[["关闭","04",89,52.5,8,4],["知道了","04",9,89.4,82,6]],"08":[["继续观看","10",68,29,28,6],["预览练习","15",68,42.2,28,6],["上传作业","35",68,54.5,28,6],["查看反馈状态","23",68,67.2,28,6],["返回","04",3,5.5,8,4]],"09":[["预览练习","34",68,47.8,28,6],["返回","04",3,5.5,8,4]],"00-empty":[["首页","00-empty",4,90.5,28,7.2],["学习","04",35,90.5,30,7.2],["我的","27",68,90.5,28,7.2]],"02A":[["确认并开始学习","00",4,71.3,92,7.2],["返回选择学生","02",3,6.6,8,4]],"24A":[],"37":[]}}</script>
-<script src="review-screens.js?v=4"></script>
+<script src="review-screens.js?v=5"></script>
 <script>
 const data=JSON.parse(document.getElementById('review-data').textContent);
 const previousHome=data.screens.find(screen=>screen.id==='00');

diff --git a/review-screens.js b/review-screens.js
@@ -2524,7 +2524,7 @@ window.currentReviewScreens = [
     "title": "未来课时 · 未开放",
     "feature": "集中显示视频进度、原练习、作业与老师反馈。",
     "rules": [
-      "入口随学习日期、服务状态和作业进度开放。"
+      "11月6日 00:00 开放。开放前可以预览练习，视频和作业提交暂不可用。"
     ],
     "controls": [
       [
@@ -2538,13 +2538,14 @@ window.currentReviewScreens = [
       [
         "预览练习",
         "06-02",
-        8.83,
-        30.81,
-        26.08,
-        3.95
+        68.08,
+        57.1,
+        23.83,
+        4.01
       ]
     ],
-    "file": "screens/04-07.png"
+    "file": "screens/04-07.png",
+    "revision": 5
   },
   {
     "id": "04-08",
@@ -2552,7 +2553,7 @@ window.currentReviewScreens = [
     "title": "服务暂停 · 历史课时可补交",
     "feature": "集中显示视频进度、原练习、作业与老师反馈。",
     "rules": [
-      "入口随学习日期、服务状态和作业进度开放。"
+      "服务暂停期间，这节历史课时仍可回看，已退回的作业可以补交。"
     ],
     "controls": [
       [
@@ -2566,29 +2567,30 @@ window.currentReviewScreens = [
       [
         "再次观看",
         "05-05",
-        65.9,
-        29.04,
-        22.79,
-        4.03
+        63.62,
+        28.93,
+        25.12,
+        4.01
       ],
       [
         "预览练习",
         "06-01",
-        70.9,
-        57.14,
-        17.78,
-        4.17
+        68.08,
+        57.1,
+        23.83,
+        4.01
       ],
       [
         "去补交",
         "06-16",
-        72.58,
-        67.53,
-        14.42,
-        3.95
+        68.08,
+        67.28,
+        23.83,
+        4.01
       ]
     ],
-    "file": "screens/04-08.png"
+    "file": "screens/04-08.png",
+    "revision": 5
   },
   {
     "id": "04-09",
@@ -2596,7 +2598,7 @@ window.currentReviewScreens = [
     "title": "服务暂停 · 新课时未开放",
     "feature": "集中显示视频进度、原练习、作业与老师反馈。",
     "rules": [
-      "入口随学习日期、服务状态和作业进度开放。"
+      "服务暂停期间，这节课暂未开放。可以先预览练习。"
     ],
     "controls": [
       [
@@ -2610,13 +2612,14 @@ window.currentReviewScreens = [
       [
         "预览练习",
         "06-02",
-        8.83,
-        30.81,
-        26.08,
-        3.95
+        68.08,
+        57.1,
+        23.83,
+        4.01
       ]
     ],
-    "file": "screens/04-09.png"
+    "file": "screens/04-09.png",
+    "revision": 5
   },
   {
     "id": "04-10",
@@ -2624,7 +2627,7 @@ window.currentReviewScreens = [
     "title": "课时用尽 · 历史课时可补交",
     "feature": "集中显示视频进度、原练习、作业与老师反馈。",
     "rules": [
-      "入口随学习日期、服务状态和作业进度开放。"
+      "课时已用尽。这节历史课时仍可回看，已退回的作业可以补交。"
     ],
     "controls": [
       [
@@ -2638,29 +2641,30 @@ window.currentReviewScreens = [
       [
         "再次观看",
         "05-05",
-        65.9,
-        29.04,
-        22.79,
-        4.03
+        63.62,
+        28.93,
+        25.12,
+        4.01
       ],
       [
         "预览练习",
         "06-01",
-        70.9,
-        57.14,
-        17.78,
-        4.17
+        68.08,
+        57.1,
+        23.83,
+        4.01
       ],
       [
         "去补交",
         "06-16",
-        72.58,
-        67.53,
-        14.42,
-        3.95
+        68.08,
+        67.28,
+        23.83,
+        4.01
       ]
     ],
-    "file": "screens/04-10.png"
+    "file": "screens/04-10.png",
+    "revision": 5
   },
   {
     "id": "04-11",
@@ -2668,7 +2672,7 @@ window.currentReviewScreens = [
     "title": "服务结束 · 视频仍可看",
     "feature": "集中显示视频进度、原练习、作业与老师反馈。",
     "rules": [
-      "入口随学习日期、服务状态和作业进度开放。"
+      "服务结束后仍可继续观看本课视频。可查看已提交的作业和已发布的反馈。"
     ],
     "controls": [
       [
@@ -2682,37 +2686,38 @@ window.currentReviewScreens = [
       [
         "继续观看",
         "05-01",
-        65.9,
-        29.05,
-        22.79,
-        4.02
+        63.62,
+        28.93,
+        25.12,
+        4.01
       ],
       [
         "预览练习",
         "06-23",
-        70.91,
-        57.15,
-        17.77,
-        4.15
+        68.08,
+        57.1,
+        23.83,
+        4.01
       ],
       [
         "查看提交",
         "06-21",
-        70.89,
-        67.5,
-        18.23,
-        4.04
+        68.08,
+        67.28,
+        23.83,
+        4.01
       ],
       [
         "查看详情",
         "07-01",
-        70.9,
-        77.53,
-        18.2,
-        4.17
+        68.08,
+        77.46,
+        23.83,
+        4.01
       ]
     ],
-    "file": "screens/04-11.png"
+    "file": "screens/04-11.png",
+    "revision": 5
   },
   {
     "id": "04-12",
@@ -2720,7 +2725,7 @@ window.currentReviewScreens = [
     "title": "视频授权已过期",
     "feature": "集中显示视频进度、原练习、作业与老师反馈。",
     "rules": [
-      "入口随学习日期、服务状态和作业进度开放。"
+      "视频观看期已结束。仍可预览练习或上传作业。"
     ],
     "controls": [
       [
@@ -2734,21 +2739,22 @@ window.currentReviewScreens = [
       [
         "预览练习",
         "06-01",
-        70.89,
-        57.13,
-        17.8,
-        4.2
+        68.08,
+        57.1,
+        23.83,
+        4.01
       ],
       [
         "上传作业",
         "06-04",
-        70.91,
-        67.35,
-        17.76,
-        4.14
+        68.08,
+        67.28,
+        23.83,
+        4.01
       ]
     ],
-    "file": "screens/04-12.png"
+    "file": "screens/04-12.png",
+    "revision": 5
   },
   {
     "id": "05-01",
@@ -3416,13 +3422,13 @@ window.currentReviewScreens = [
         "重试",
         "!retrySummary",
         75.94,
-        55.09,
+        58.5,
         15.49,
         2.93
       ]
     ],
     "file": "screens/05-13.png",
-    "revision": 2
+    "revision": 5
   },
   {
     "id": "05-14",
